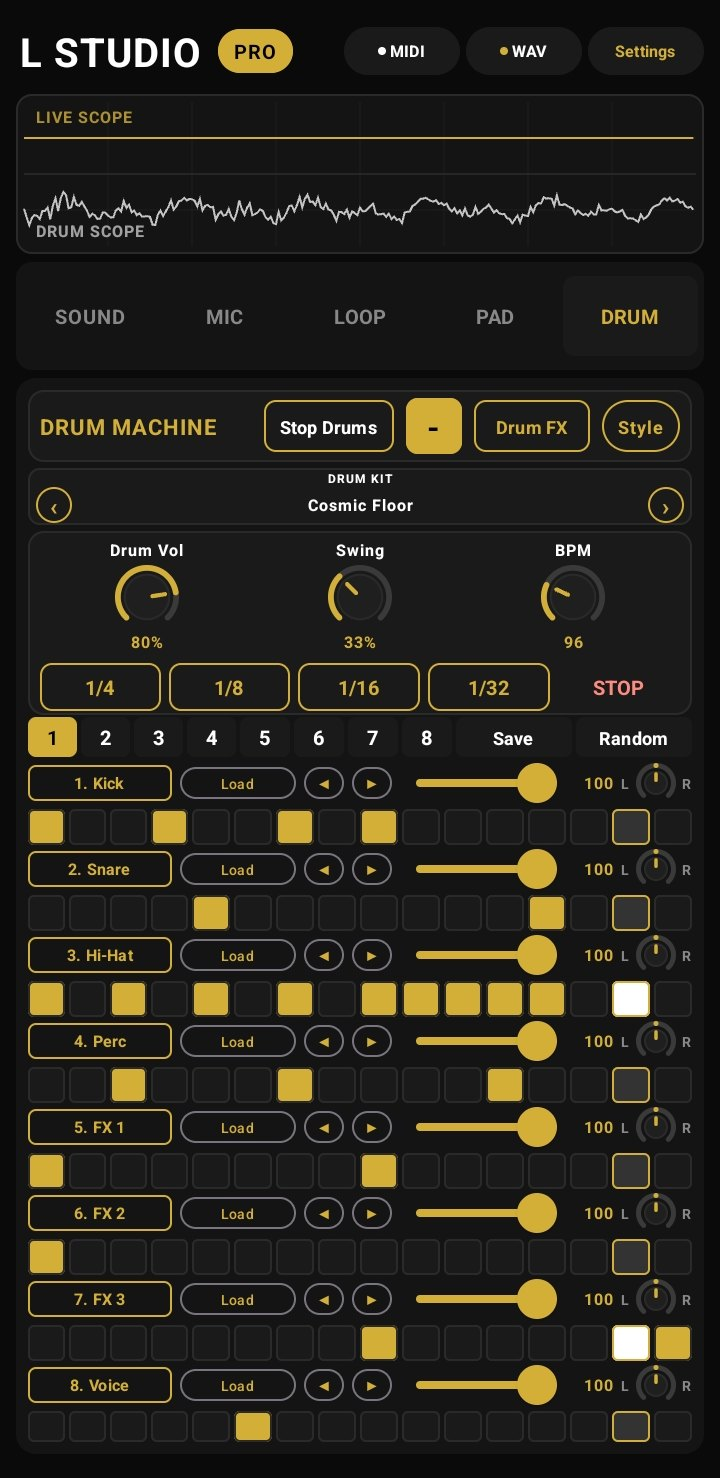
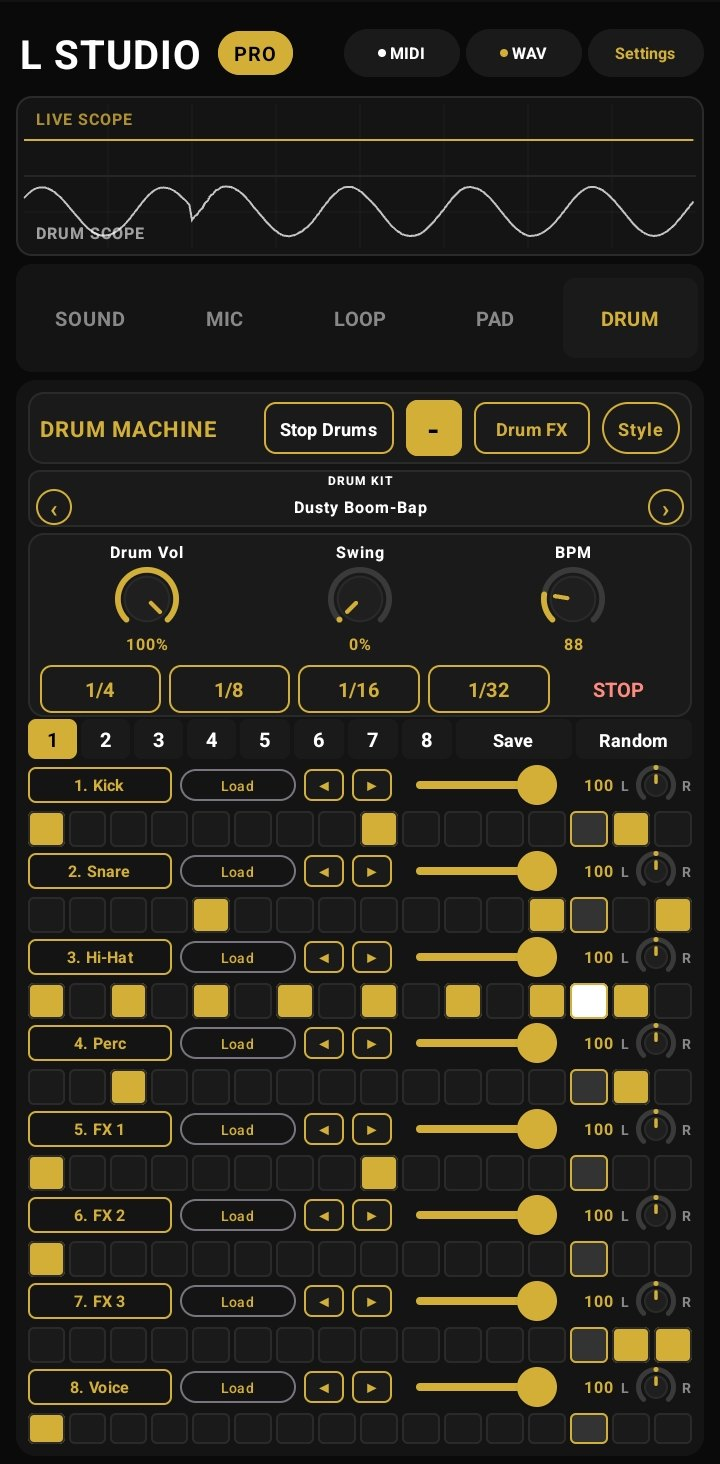
Guide 1.10: Mic screen with Redo, new Drum screen, alts

diff --git a/CONTENT_EDITING.md b/CONTENT_EDITING.md
@@ -101,7 +101,7 @@ Under the feature graphic, a "Demo video" tab (`demoCopy` in `client/src/pages/H
 - Guide Loop, Mic, Drum, and Sound (Frequencies, Drive) text, the new Loop Editor section, and the 1.10 guide shots (`assets/guide/*-110.jpg`) describe app 1.10 (final commit ea63c40). Settings also covers New session, the fuller session save, the load confirm and backup, and rename on import (ea63c40). The new Factory vocals (Voice 7 to 40) are left out until David approves their sound.
 - Homepage windows menu: the Loop and Drum tabs use the approved 1.10 Play assets `assets/play/110-03-looper` and `110-01-live-sample-swap` (`PLAY_SHOT_VER = "110-play"` in `Home.tsx`). The Loop Editor Play asset (02) is not used on the homepage yet.
 - Updates: item `app-1-10-loop-editor-drums` is `in_progress` and says "coming in the next Google Play update". When 1.10 is live on Google Play, set it to `shipped`, change the wording, and update the version and size shown on the site (still 1.09 / 60.6 MB).
-- The Mic guide image (`assets/guide/mic-screen.jpg`) is an older shot that still shows Back. `ui-mic.png` in team docs shows the Loop tab, not Mic, so it was not used. Replace the Mic shot when a real 1.10 Mic shot exists.
+- The Mic guide image is `assets/guide/mic-screen-110.jpg` (David's `ui-new-3.png`, Mic screen with Redo). `ui-mic.png` in team docs shows the Loop tab, not Mic, and is not used. `drum-screen-110.jpg` is now from `ui-new-4.png`.
 - Settings and Tune frequencies use David's 1.10 shots `assets/guide/settings-window-110.jpg` (ui-new-1, New session first) and `freq-window-110.jpg` (ui-new-2, My Presets 1-8 with Save). The older `settings-window.jpg` and `freq-window.jpg` stay in git but are no longer used by the guide.
 - Updates items can carry optional `sections: [{ "title", "bullets": [] }]`, shown as grouped lists under `summary` (`UpdateItemSection` in `client/src/lib/updatesCopy.ts`). Items without it show only `summary`. The 1.10 item uses it for the team-lead-approved text (Looper, Loop editor, Drums, Frequencies, Session), checked against app commit e6b6e3c. Left out on purpose: per-channel sample counts (not checkable in code), "Load Kit and Save Kit are gone" (1.09 never had them), and the Voice vocals (on hold). Redo is written as the code does it: it brings back a take that was recorded over or cleared, and in the looper also one from before a trim.
 - Ticker: each item shows its `ticker` line (falls back to `title`), plus any `tickerMore` lines, each linking to the item. Before this, the ticker showed `title` only.
